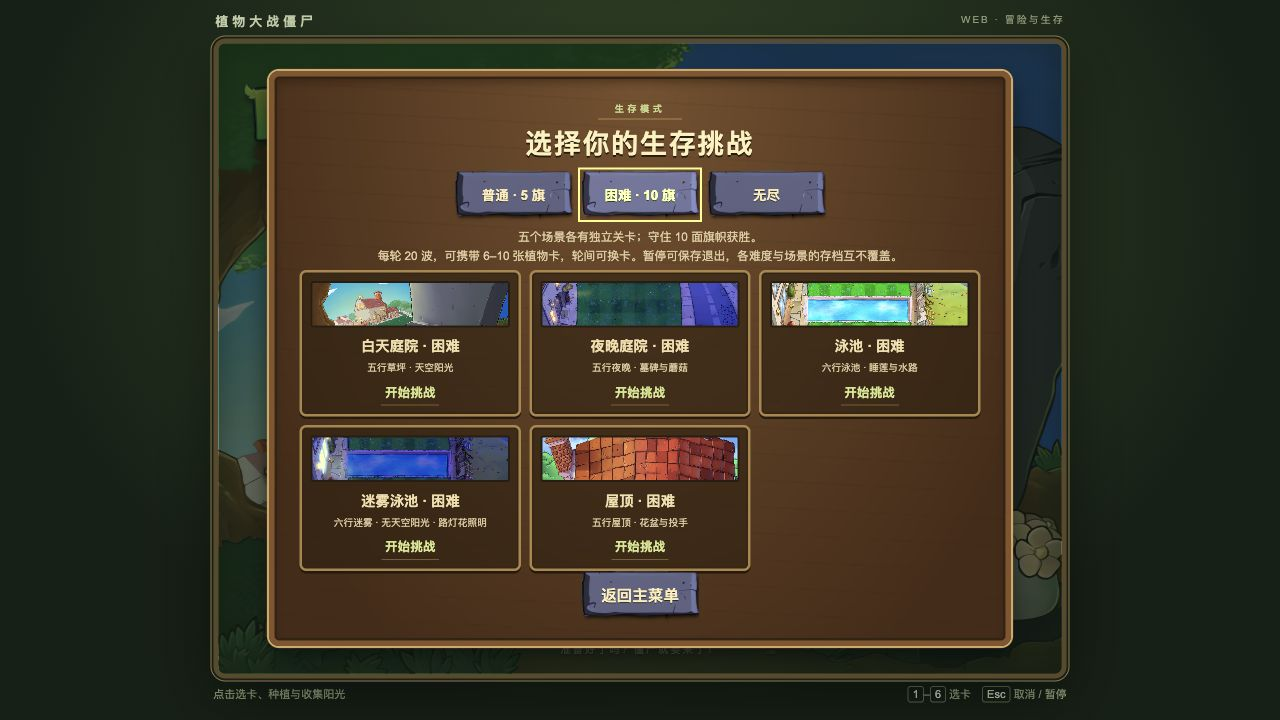
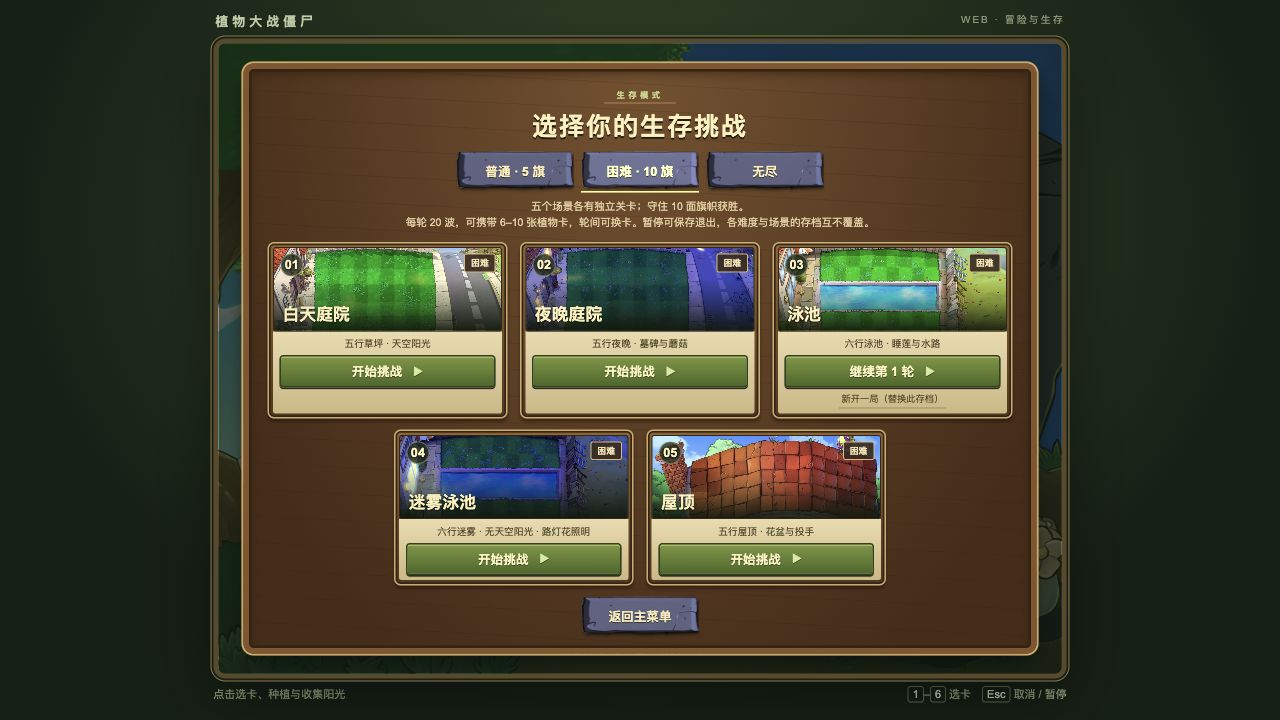
style: redesign survival scene cards and correct daytime preview

diff --git a/src/ui.css b/src/ui.css
@@ -35,7 +35,6 @@ footer{color:#8d9d76;font-size:11px}
 .level-card b{font-size:1.6cqw;grid-column:2;grid-row:1;color:#5d4e27}.level-panel .level-card img{grid-column:1;grid-row:1 / 4;width:3.9cqw;height:5cqw;align-self:center}.level-panel .level-card strong{font-size:1.2cqw;grid-column:2;line-height:1.3}.level-card small{font-size:.85cqw;grid-column:2}.level-card:disabled{opacity:.52;filter:grayscale(.65)}.level-card:hover:not(:disabled){background:linear-gradient(#fff0b9,#d9ca88);box-shadow:0 0 0 .2cqw #b6ce5d}
 .chosen-seeds{background:linear-gradient(#281c10,#51361b);border:.45cqw solid #aa783b;box-shadow:inset 0 .4cqw .8cqw #130e0b88,0 .2cqw #d0a25a;padding:1cqw}.empty-seed{border:.2cqw dashed #81683a;background:#251f1466;box-shadow:inset 0 0 1cqw #140e0a77;color:#806b42}.chosen-seed{box-shadow:0 .3cqw .4cqw #1b100aaa}
 .seed-options{padding:1.3cqw;border-radius:.6cqw;background:#2b1b0d66;box-shadow:inset 0 .2cqw .6cqw #160c0866}.seed-option{color:#f1dfac}.seed-option:hover:not(:disabled){transform:translateY(-.2cqw)}.chooser-panel #choice-count{color:#cddf8a;font-weight:bold}.chooser-panel{width:85%;padding:1.7cqw 2.7cqw}.chooser-panel .kicker{font-size:1cqw}.chooser-panel h2{font-size:2.8cqw}.chooser-panel p{font-size:1.25cqw;margin:.6cqw 0}.chooser-panel .chosen-seeds{margin:1cqw 0}.chooser-panel .chosen-seed,.chooser-panel .empty-seed{width:6.5cqw;height:8.8cqw}
-.survival-scenes article{background:#30200f99;border:.3cqw solid #ad8648;box-shadow:inset 0 0 0 .2cqw #382410,0 .3cqw #28180c;border-radius:.8cqw;padding:1cqw}.survival-scenes img{height:5.5cqw;border:.25cqw solid #281e10;border-radius:.35cqw}.survival-scenes h3{color:#f3dfaa;font-size:2cqw}.survival-scenes .text-button{font-weight:bold;color:#d6e88d;font-size:1.5cqw}.survival-scenes p{font-size:1.15cqw}
 .almanac-grid article{background:linear-gradient(110deg,#e8d9a6,#c8b27c);border:.3cqw solid #3b2915;border-radius:.65cqw;padding:1cqw;box-shadow:inset 0 .2cqw #f9eab6}.almanac-grid h3{color:#374321;font-size:1.8cqw}.almanac-grid h3 span{color:#756030}.almanac-grid p{color:#534529;font-size:1.2cqw}.almanac-grid img{width:7cqw;max-height:9cqw;object-fit:contain}.help-list{color:#e6d6a9}
 .reward-panel{background:radial-gradient(ellipse at 50% 25%,#827339,#482b16 80%)}
 .auto-sun{background:linear-gradient(#626e47,#354527);border:.2cqw solid #252f1c;box-shadow:inset 0 .2cqw #a1aa73,0 .25cqw #172115;color:#f4ecc7;border-radius:.45cqw}
@@ -55,7 +54,6 @@ footer{color:#8d9d76;font-size:11px}
   .paper-panel .wood-button{font-size:13px;min-height:34px;min-width:110px}.paper-panel .text-button{font-size:12px;padding:7px;margin:6px auto}
   .level-panel .level-grid{grid-template-columns:repeat(3,1fr);gap:5px}.level-panel .level-card{grid-template-columns:24px 1fr;padding:5px}.level-panel .level-card img{width:24px;height:34px}.level-card b{font-size:12px}.level-panel .level-card strong{font-size:10px}.level-card small{font-size:8px}
   .chooser-panel .chosen-seed,.chooser-panel .empty-seed{width:36px;height:49px}.chooser-panel .seed-options{grid-template-columns:repeat(4,1fr);gap:8px;padding:8px}.chooser-panel .seed-option>img,.chooser-panel .seed-option .packet-art{width:40px;height:54px;margin:0 auto}.chooser-panel .seed-option{font-size:10px}.chooser-panel .packet-price{font-size:10px}.chooser-panel .seed-option[aria-pressed="true"]:after{font-size:28px;top:12px}
-  .survival-scenes h3{font-size:15px}.survival-scenes img{height:45px}.survival-scenes article{padding:7px}.survival-scenes p{font-size:10px}
   .almanac-grid{grid-template-columns:1fr}.almanac-grid img{width:48px;max-height:60px}.almanac-grid h3{font-size:15px}.almanac-grid h3 span{font-size:11px}.almanac-grid p{font-size:11px}
   .mode-button small,.mode-eyebrow,.mode-detail{font-size:8px}.mode-eyebrow{letter-spacing:1px}.menu-tools .wood-button{font-size:12px}.garden-sign span{font-size:7px}.garden-sign b{font-size:11px}.almanac-menu small{font-size:7px}.almanac-menu span{font-size:11px}.garden-note{font-size:8px}
 }
@@ -134,6 +132,42 @@ footer{color:#8d9d76;font-size:11px}
 .plant-detail{border-top:1px solid #9caa7777;margin-top:1cqw;padding-top:1cqw;text-align:left}
 .plant-detail h4{font-size:1.5cqw;margin:0;color:#ffe08f}.plant-detail p{font-size:1.3cqw;margin:.5cqw 0}.plant-detail small{font-size:1.1cqw;color:#bcd08a}
 
-.survival-modes{display:flex;justify-content:center;gap:1cqw;margin:1cqw 0}.survival-modes .wood-button{margin:0;font-size:1.6cqw;padding:.7cqw 1.6cqw}.survival-modes [aria-pressed="true"]{color:#e7ff92;outline:2px solid #d1db71;outline-offset:1px}
 
-@container(min-width:601px){.survival-scenes{grid-template-columns:repeat(3,minmax(0,1fr))}.survival-scenes h3{font-size:1.7cqw}}
+
+/* Survival picker: framed scene cards, with the last pair centered. */
+.survival-panel{width:94%;padding:1.7cqw 2.2cqw 1.4cqw}
+.survival-panel>h2{font-size:3cqw;margin:.5cqw 0}
+.survival-panel>.kicker{padding:.2cqw 1.4cqw;font-size:1cqw}
+.survival-panel>p{font-size:1.25cqw;line-height:1.55;margin:.8cqw 0 1.3cqw;color:#e6cf9f}
+.survival-modes{display:flex;justify-content:center;gap:.8cqw;margin:.9cqw 0}
+.survival-modes .wood-button{margin:0;font-size:1.5cqw;height:4.7cqw;min-width:14cqw;padding:0 1.4cqw}
+.survival-modes [aria-pressed="true"]{color:#f1ffaf;box-shadow:0 .25cqw 0 #dddf81;filter:brightness(1.16)}
+.survival-scenes{grid-template-columns:repeat(6,minmax(0,1fr));gap:1.3cqw 1.5cqw}
+.survival-scenes .survival-card{grid-column:span 2;display:flex;flex-direction:column;padding:.45cqw;border:.2cqw solid #cbac6c;border-radius:.8cqw;background:linear-gradient(#916333,#54361b);box-shadow:0 .4cqw .4cqw #21120688,inset 0 0 0 .2cqw #382311;overflow:hidden;min-width:0}
+.survival-card:nth-child(4){grid-column:2 / span 2}.survival-card:nth-child(5){grid-column:4 / span 2}
+.survival-preview{position:relative;isolation:isolate;height:10cqw;flex:none;overflow:hidden;border-radius:.35cqw;border:1px solid #352614;background:#263523}
+.survival-preview:after{content:"";position:absolute;inset:0;z-index:1;pointer-events:none;background:linear-gradient(transparent 38%,#101e0d55 65%,#10190ced)}
+.survival-scenes .survival-preview img{display:block;width:100%;height:100%;object-fit:cover;object-position:center 58%;border:0;border-radius:0}
+.survival-number{position:absolute;top:.65cqw;left:.75cqw;color:#fff4c2;font-size:1.5cqw;font-weight:900;text-shadow:0 1px 3px #000;background:#1c2919c9;border:1px solid #f8e2a45e;border-radius:50%;width:2.7cqw;height:2.7cqw;display:grid;place-items:center}
+.survival-badge{position:absolute;right:.65cqw;top:.65cqw;background:#3b291ee8;border:1px solid #dab87b;color:#f6e2b1;border-radius:.3cqw;padding:.25cqw .7cqw;font-size:1.05cqw;font-weight:bold}
+.survival-scenes .survival-preview h3{position:absolute;bottom:.65cqw;left:1cqw;right:1cqw;margin:0;color:#fff1bc;font-size:2cqw;line-height:1.3;text-align:left;text-shadow:0 .2cqw .25cqw #101908;z-index:2}
+.survival-card-body{flex:1;padding:.55cqw .8cqw .6cqw;background:linear-gradient(#ebdbac,#cdb881);color:#3a3820;border-radius:0 0 .3cqw .3cqw}
+.survival-scenes .survival-card-body p{color:#514524;font-size:1.15cqw;line-height:1.5;margin:0 0 .55cqw;white-space:nowrap}
+.survival-actions{display:flex;flex-direction:column;align-items:stretch;gap:.45cqw}
+.survival-play{display:flex;align-items:center;justify-content:center;gap:1.3cqw;width:100%;min-height:3.8cqw;border:.2cqw solid #2e411c;border-radius:.45cqw;background:linear-gradient(#7c963c,#486823);box-shadow:inset 0 .15cqw #b7c86b,0 .2cqw #302d18;color:#fff4c2;text-shadow:0 1px #2a4316;font-size:1.5cqw;font-weight:bold;padding:.4cqw .8cqw}
+.survival-play span{font-size:.9em;color:#d8eaa0}.survival-play:hover{background:linear-gradient(#96ad50,#5b7c2e)}.survival-play:active{transform:translateY(1px);box-shadow:inset 0 1px 3px #21371388}
+.survival-card:focus-within{border-color:#f8ec98;box-shadow:0 0 0 .15cqw #ddc875,0 .4cqw .4cqw #21120688}
+.survival-scenes .survival-restart{font-size:1.1cqw;line-height:1.3;margin:0 auto;padding:.25cqw;color:#5b4724;border-color:#80623688}
+.survival-scenes .survival-restart:hover{color:#282e13;border-color:#3d4d1d}
+.survival-panel>#close{height:4.7cqw;margin-top:1.3cqw;font-size:1.5cqw}
+@container(max-width:600px){
+  .survival-panel{padding:12px}.survival-panel>h2{font-size:20px}.survival-panel>.kicker{font-size:9px}.survival-panel>p{font-size:11px;margin:8px 0 10px}
+  .survival-modes{gap:5px;margin:8px 0}.survival-modes .wood-button{min-width:0;flex:1;padding:0 4px;font-size:12px}
+  .survival-scenes{grid-template-columns:repeat(2,minmax(0,1fr));gap:10px}
+  .survival-scenes .survival-card{grid-column:auto;padding:3px;border-width:2px;border-radius:7px}
+  .survival-preview{height:23cqw;border-radius:3px}.survival-scenes .survival-preview h3{font-size:15px;left:7px;bottom:6px;right:7px}
+  .survival-number{font-size:11px;width:21px;height:21px;left:5px;top:5px}.survival-badge{font-size:10px;right:5px;top:5px;padding:2px 5px}
+  .survival-card-body{flex:1;padding:6px}.survival-scenes .survival-card-body p{font-size:10px;white-space:normal;min-height:30px;margin:0 0 5px}
+  .survival-play{font-size:13px;min-height:34px;border-width:2px;border-radius:4px;padding:5px;gap:10px}
+  .survival-scenes .survival-restart{font-size:10px;padding:4px 0;margin:0 auto}.survival-panel>#close{margin-top:12px;font-size:13px}
+}

diff --git a/src/main.ts b/src/main.ts
@@ -282,9 +282,9 @@ $('#levels').onclick = levelPicker;
 function survivalPicker(mode: SurvivalMode) {
   const goal = mode === 'survival-normal' ? 5 : 10;
   const waves = mode === 'survival-normal' ? 10 : 20;
-  panel(`<span class="kicker">生存模式</span><h2>选择你的生存挑战</h2><div class="survival-modes" role="group" aria-label="生存难度">${SURVIVAL_MODES.map(item => `<button class="wood-button" data-survival-mode="${item}" aria-pressed="${item === mode}">${SURVIVAL_MODE_NAMES[item]}${item === 'endless' ? '' : item === 'survival-normal' ? ' · 5 旗' : ' · 10 旗'}</button>`).join('')}</div><p>${mode === 'endless' ? '没有终点，挑战更多旗帜。' : `五个场景各有独立关卡；守住 ${goal} 面旗帜获胜。`}<br/>每轮 ${waves} 波，可携带 6–10 张植物卡，轮间可换卡。暂停可保存退出，各难度与场景的存档互不覆盖。</p><div class="survival-scenes">${SURVIVAL_SCENES.map(scene => {
+  panel(`<span class="kicker">生存模式</span><h2>选择你的生存挑战</h2><div class="survival-modes" role="group" aria-label="生存难度">${SURVIVAL_MODES.map(item => `<button class="wood-button" data-survival-mode="${item}" aria-pressed="${item === mode}">${SURVIVAL_MODE_NAMES[item]}${item === 'endless' ? '' : item === 'survival-normal' ? ' · 5 旗' : ' · 10 旗'}</button>`).join('')}</div><p>${mode === 'endless' ? '没有终点，挑战更多旗帜。' : `五个场景各有独立关卡；守住 ${goal} 面旗帜获胜。`}<br/>每轮 ${waves} 波，可携带 6–10 张植物卡，轮间可换卡。暂停可保存退出，各难度与场景的存档互不覆盖。</p><div class="survival-scenes">${SURVIVAL_SCENES.map((scene, index) => {
     const saved = loadSurvival(scene, mode);
-    return `<article><img loading="lazy" src="${import.meta.env.BASE_URL}assets/runtime/previews/${scene}.webp" alt=""/><h3>${SCENE_NAMES[scene]} · ${SURVIVAL_MODE_NAMES[mode]}</h3><p>${scene==='day'?'五行草坪 · 天空阳光':scene==='night'?'五行夜晚 · 墓碑与蘑菇':scene==='pool'?'六行泳池 · 睡莲与水路':scene==='roof'?'五行屋顶 · 花盆与投手':'六行迷雾 · 无天空阳光 · 路灯花照明'}</p>${saved ? `<button class="wood-button" data-continue="${scene}">继续第 ${saved.game.survivalStage+1} 轮</button>` : ''}<button class="text-button" data-survival="${scene}">${saved ? '新开一局（替换此存档）' : '开始挑战'}</button></article>`;
+    return `<article class="survival-card survival-card-${scene}"><div class="survival-preview"><img loading="lazy" src="${import.meta.env.BASE_URL}assets/runtime/previews/${scene}.${scene === 'day' ? 'jpg' : 'webp'}" alt=""/><span class="survival-number" aria-hidden="true">0${index + 1}</span><span class="survival-badge">${SURVIVAL_MODE_NAMES[mode]}</span><h3>${SCENE_NAMES[scene]}</h3></div><div class="survival-card-body"><p>${scene==='day'?'五行草坪 · 天空阳光':scene==='night'?'五行夜晚 · 墓碑与蘑菇':scene==='pool'?'六行泳池 · 睡莲与水路':scene==='roof'?'五行屋顶 · 花盆与投手':'六行迷雾 · 无天空阳光 · 路灯花照明'}</p><div class="survival-actions">${saved ? `<button class="survival-play" data-continue="${scene}">继续第 ${saved.game.survivalStage+1} 轮<span aria-hidden="true">▶</span></button>` : ''}<button class="${saved ? 'text-button survival-restart' : 'survival-play'}" data-survival="${scene}">${saved ? '新开一局（替换此存档）' : '开始挑战<span aria-hidden="true">▶</span>'}</button></div></div></article>`;
   }).join('')}</div><button id="close" class="wood-button">返回主菜单</button>`, 'paper-panel wide-panel survival-panel');
   document.querySelectorAll<HTMLButtonElement>('[data-survival-mode]').forEach(button => button.onclick = () => survivalPicker(button.dataset.survivalMode as SurvivalMode));
   document.querySelectorAll<HTMLButtonElement>('[data-survival]').forEach(button => button.onclick = () => { const scene = button.dataset.survival as SurvivalScene; clearSurvival(scene, mode); setLevel(9, mode, scene); });

diff --git a/tools/build-scene-previews.py b/tools/build-scene-previews.py
@@ -2,12 +2,19 @@
 from pathlib import Path
 from PIL import Image
 import json
+import shutil
 root = Path(__file__).resolve().parents[1] / 'public/assets/runtime'
 out = root / 'previews'
 out.mkdir(exist_ok=True)
 report = []
 for scene in ['day','night','pool','fog','roof']:
-    source = root / 'original' / ('menu.webp' if scene == 'day' else scene+'.webp')
+    if scene == 'day':
+        source = root.parent / 'lawn.jpg'
+        target = out / 'day.jpg'
+        shutil.copyfile(source, target)
+        report.append({'scene':scene,'sourceBytes':source.stat().st_size,'previewBytes':target.stat().st_size,'size':Image.open(source).size})
+        continue
+    source = root / 'original' / (scene+'.webp')
     image = Image.open(source)
     image.thumbnail((800,800), Image.Resampling.LANCZOS)
     target = out / (scene+'.webp')
